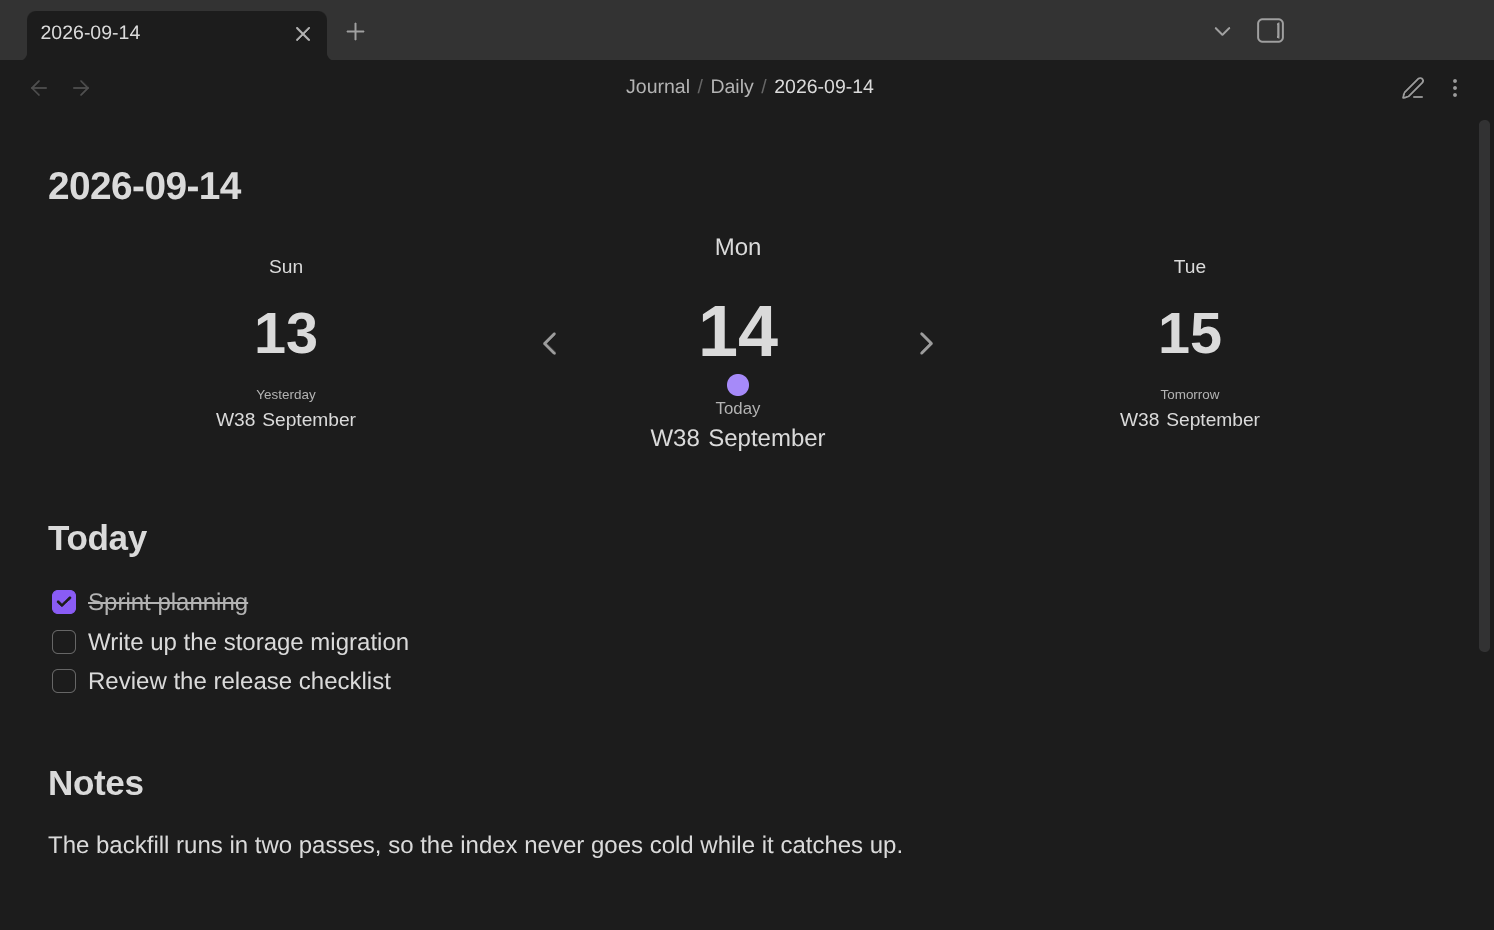
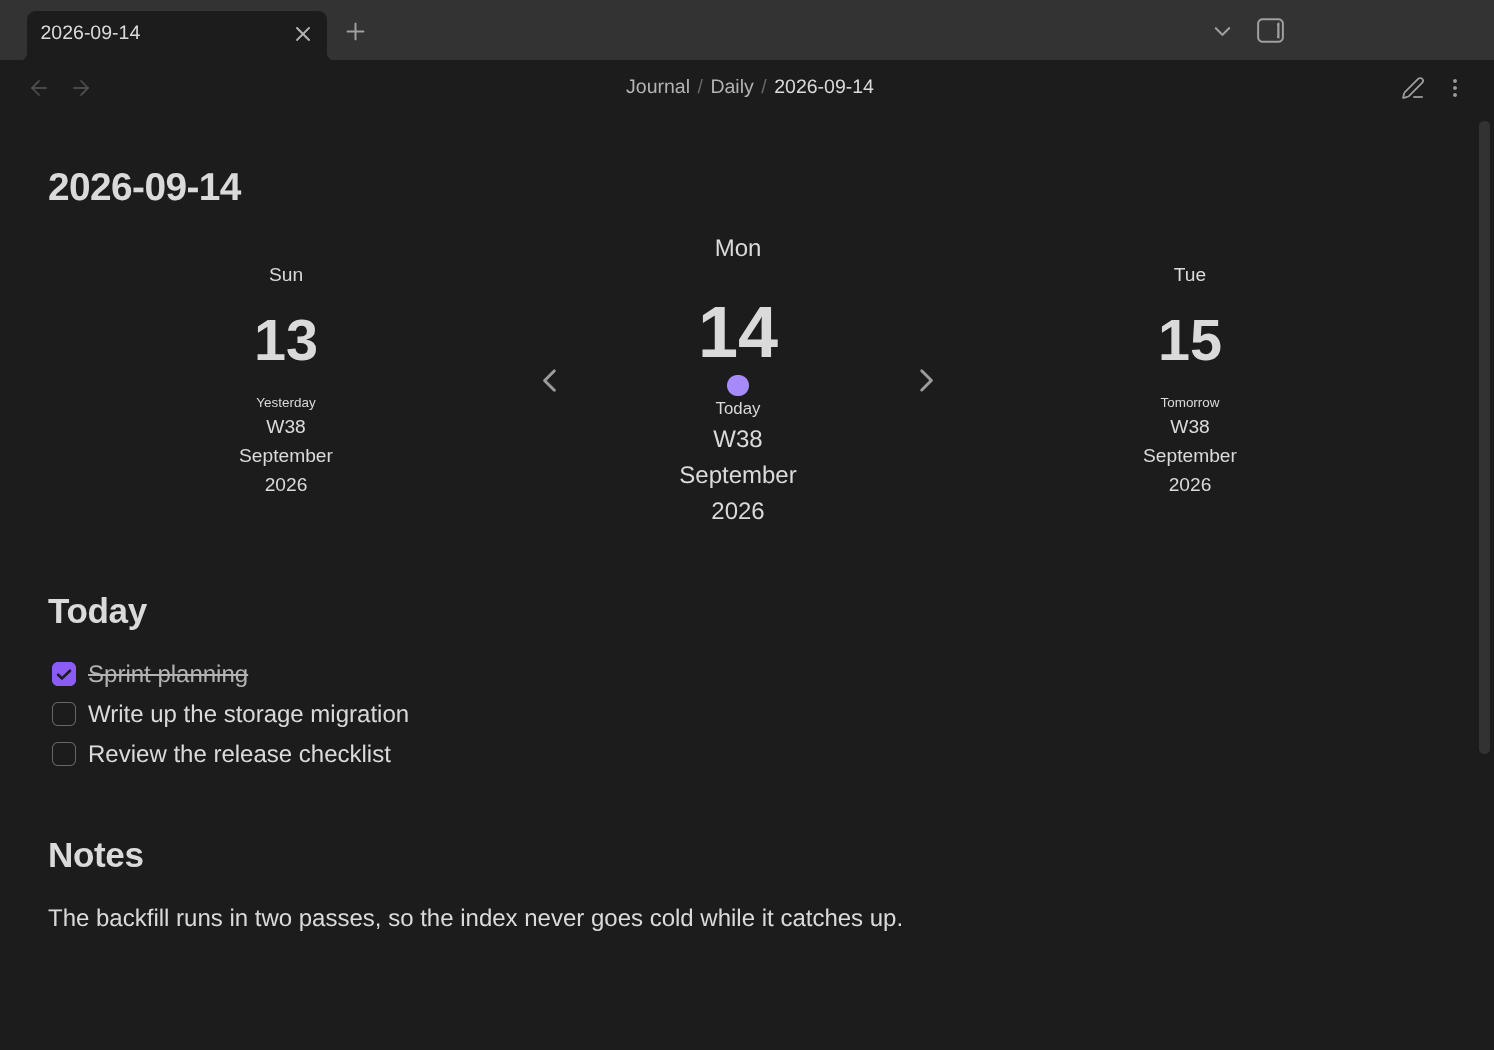
docs(readme): shoot the navigation and interval blocks as a journal ships them
Both were hand-authored: the nav block dropped the year line, put the week and
month on one line and muted the relative line, and the interval rows said
"Sprint {{index}}" over "MMM D – MMM D". The README's claim is that this is
what the plugin gives you, so a layout nobody is given is a different claim.

Both now match defaultNavBlocks.day and customIntervalBlock byte for byte, and
the custom journal is named Sprint so the stock "{{journal_name}} {{index}}"
row reads Sprint 1. assertStockRows holds the fixtures to it, failing on a
fixture edited away from the defaults and on a default that moves under them.

diff --git a/e2e/screenshots/readme.shot.ts b/e2e/screenshots/readme.shot.ts
@@ -22,7 +22,9 @@ const VIEW_BLOCK_ENTRY = `${BLOCKS_SECTION} .jv-block-entry`;
 // A markdown leaf mounts a live-preview and a reading-view copy of every fence, so each block
 // selector is scoped to the reading view — the copy with a laid-out width.
 const READING_VIEW = `${ROOT_SPLIT} .markdown-reading-view`;
-const NAV_VIEW = `${READING_VIEW} .block-language-journal-nav .nav-view`;
+const NAV_BLOCK = `${READING_VIEW} .block-language-journal-nav`;
+const NAV_VIEW = `${NAV_BLOCK} .nav-view`;
+const NAV_CURRENT_ROWS = `${NAV_BLOCK} .nav-block-current .nav-row`;
 const NOTELET_BLOCK = `${READING_VIEW} .block-language-journal-notelets`;
 const TIMELINE_BLOCK = `${READING_VIEW} .block-language-calendar-timeline`;
 
@@ -122,6 +124,23 @@ async function settleForCapture(): Promise<void> {
   await browser.pause(400);
 }
 
+// Every block in these images is the one a journal is created with — the README's claim is that
+// this is what the plugin gives you, so a hand-authored layout would be a different claim. These
+// assertions are what holds the fixtures to it: they fail on a fixture edited away from the
+// defaults in src/journals/config.ts, and on a default that changes under them.
+class StockBlockDriftError extends Error {
+  constructor(what: string, actual: readonly string[], expected: readonly string[]) {
+    super(`${what} rendered ${JSON.stringify(actual)}, not the stock ${JSON.stringify(expected)}`);
+    this.name = "StockBlockDriftError";
+  }
+}
+
+function assertStockRows(what: string, actual: readonly string[], expected: readonly string[]): void {
+  if (actual.length !== expected.length || actual.some((row, index) => row !== expected[index])) {
+    throw new StockBlockDriftError(what, actual, expected);
+  }
+}
+
 class ClippedGridError extends Error {
   constructor(contentWidth: number, frameWidth: number) {
     super(`the month grid needs ${contentWidth}px but its view is ${frameWidth}px, so a column is cut off`);
@@ -197,7 +216,7 @@ describe("readme screenshots", () => {
     await seedWrittenDays();
     await createThroughPlugin({ type: "week", date: "2026-09-14" });
     await createThroughPlugin({ type: "week", date: "2026-09-07" });
-    await createThroughPlugin({ journal: "Sprints", date: "2026-09-14" });
+    await createThroughPlugin({ journal: "Sprint", date: "2026-09-14" });
     await seedNote(dayNotePath(TODAY), hostNote("Daily", TODAY, TODAY_NOTE_BODY));
     await closeAllLeaves();
   });
@@ -205,7 +224,7 @@ describe("readme screenshots", () => {
   after(closeSettings);
 
   it("shows the seeded Calendar view beside today's note", async () => {
-    await sizeWindow(1360, 620);
+    await sizeWindow(1360, 700);
     await openInReadingMode(dayNotePath(TODAY));
     await openSeededCalendarView();
     await $(CUSTOM_INTERVALS).waitForExist({ timeoutMsg: "the custom-intervals block did not render" });
@@ -221,6 +240,14 @@ describe("readme screenshots", () => {
     await settleForCapture();
 
     const intervalRows = await textsOf(`${CUSTOM_INTERVALS} .nav-row`);
+    assertStockRows("the custom-interval block", intervalRows, [
+      "Sprint 1",
+      "2026-08-31 to 2026-09-13",
+      "Sprint 2",
+      "2026-09-14 to 2026-09-27",
+      "Sprint 3",
+      "2026-09-28 to 2026-10-11",
+    ]);
 
     await captureThemed(WORKSPACE, "readme-calendar");
 
@@ -234,16 +261,26 @@ describe("readme screenshots", () => {
 
   it("shows a daily note's navigation block", async () => {
     await browser.executeObsidian(({ app }) => app.workspace.rightSplit.collapse());
-    await sizeWindow(1040, 620);
+    await sizeWindow(1040, 700);
     await closeAllLeaves();
     await openInReadingMode(dayNotePath(TODAY));
     await $(NAV_VIEW).waitForExist({ timeoutMsg: "the journal-nav block did not render" });
+    const currentRows = await textsOf(NAV_CURRENT_ROWS);
+    assertStockRows("the day journal's navigation block", currentRows, [
+      "Mon",
+      "14",
+      "Today",
+      "W38",
+      "September",
+      "2026",
+    ]);
     await settleForCapture();
 
     await captureThemed(ROOT_SPLIT, "readme-nav-block");
 
     await recordOutcome("readme-nav-block", {
       hostPath: dayNotePath(TODAY),
+      currentRows,
       segmentTexts: await textsOf(`${NAV_VIEW} .nav-row`),
     });
   });

diff --git a/README.md b/README.md
@@ -49,7 +49,7 @@ A comprehensive journaling solution for [Obsidian](https://obsidian.md/) that tr
 
 ## What it looks like
 
-**Every note links to the ones around it.** A navigation block in a daily note opens the day before and after, and the week or month that day belongs to — creating the note if it is not there yet.
+**Every note links to the ones around it.** A navigation block in a daily note opens the day before and after, and the week, month and year that day belongs to — creating the note if it is not there yet.
 
 <picture>
   <source
